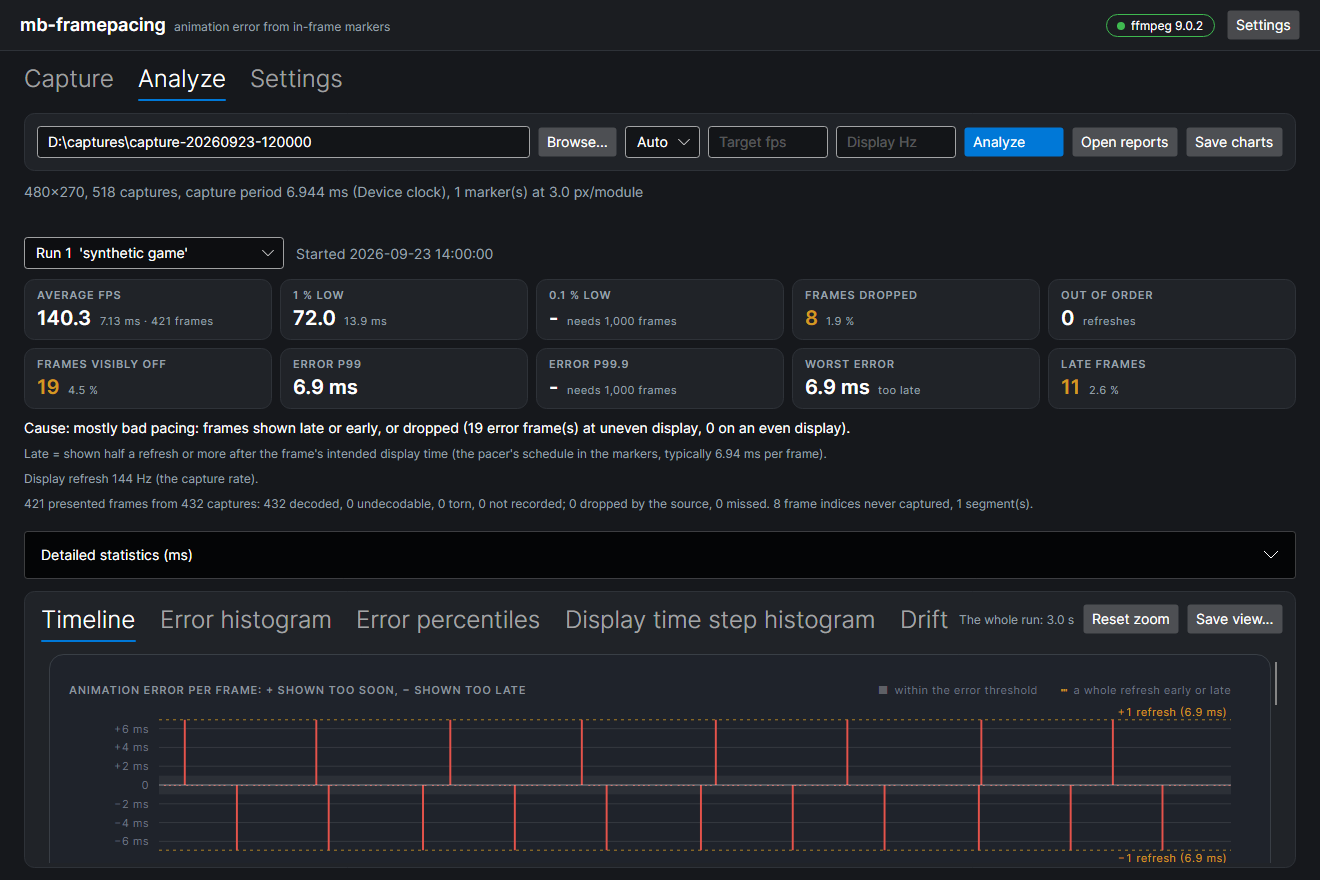
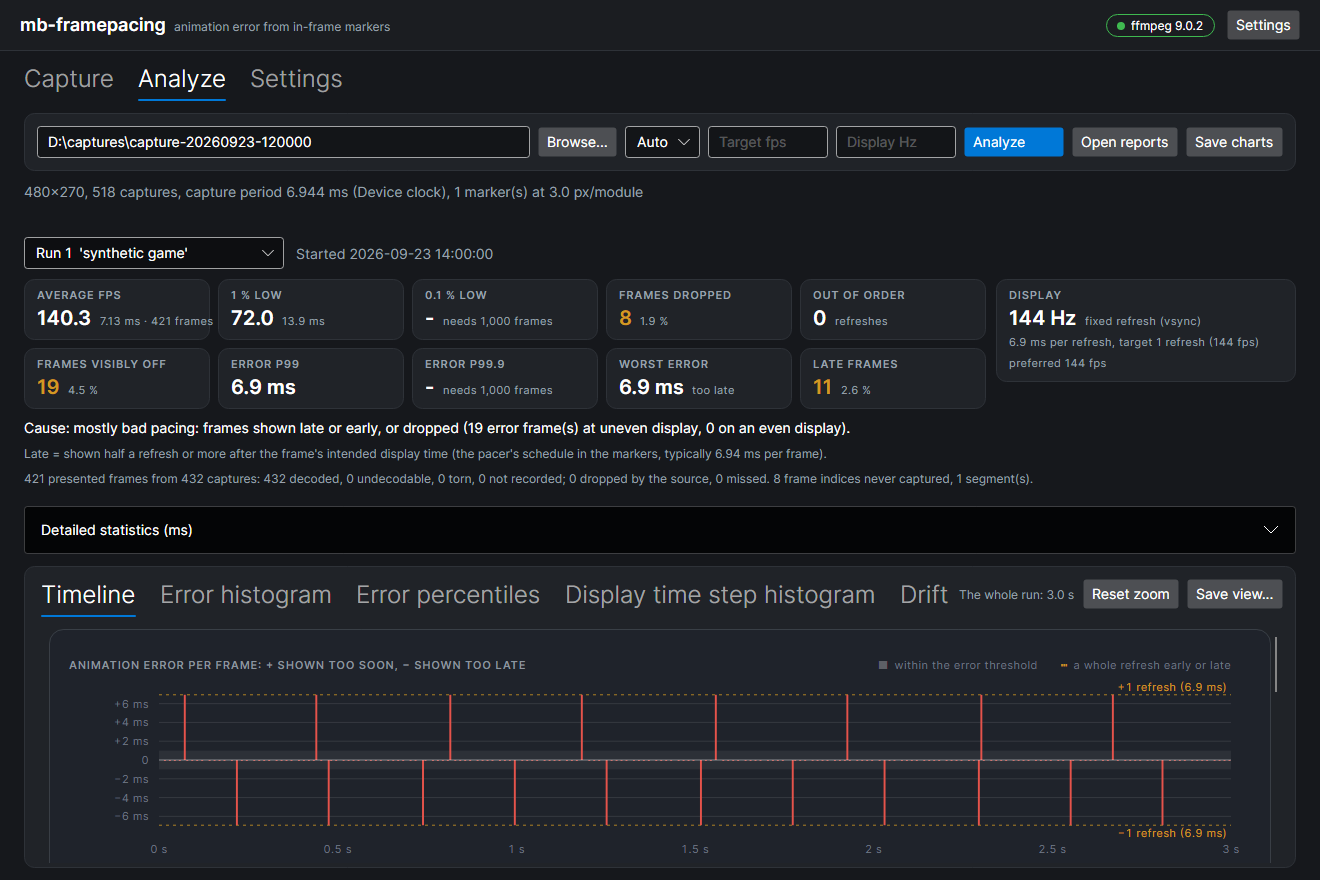
GUI: the report's display box as a Display card beside the tiles
RunHeadline.Display (DisplaySummary) now builds the display box's rate, kind, time per refresh with the target, and what the application prefers; the report draws it (its SVGs byte-identical) and the Analyze page shows it as a card top right beside the tiles, as on the report. The old refresh line becomes the card's tooltip. The tiles were already the report's (RunHeadline.Shown). gui-analysis.png regenerated; usage.md and CLAUDE.md name the card.

diff --git a/measure/libs/MB.FramePacing.Charts/source/ReportCard.cs b/measure/libs/MB.FramePacing.Charts/source/ReportCard.cs
@@ -138,15 +138,13 @@ namespace MB.FramePacing.Charts
       var tiles = ReportItem.TileIds.Any(options.IsShown) ? RunHeadline.Shown(section.Section, options).ToList() : new List<HeadlineTile>();
       if (options.HideEmpty && options.IsShown(ReportItem.LateShare) && (section.Section.Run.Pacing?.LateFrames ?? 0) == 0)
         options = options.Hide(new[] { ReportItem.LateShare });
-      // What the application wants, when its markers say so: a line of its own in the display box
-      string wants = options.IsShown(ReportItem.Display)
-        ? Wants(Enumerable.Range(section.Start, section.FrameCount).Select(i => section.Data.Frames[i]))
-        : string.Empty;
-      double displayH = wants.Length > 0 ? DisplayBoxH + DisplayLineH : DisplayBoxH;
+      // The display box (RunHeadline, as the GUI's Display card); what the application wants gets a line of its own
+      var display = options.IsShown(ReportItem.Display) ? RunHeadline.Display(section) : null;
+      double displayH = display is { Wants.Length: > 0 } ? DisplayBoxH + DisplayLineH : DisplayBoxH;
       var layout = Layout.For(options, description.Count, tiles.Count, displayH);
       var parts = Header(title, options.IsShown(ReportItem.Description) ? description : Array.Empty<string>(), options.IsShown(ReportItem.Title));
-      if (options.IsShown(ReportItem.Display))
-        DisplayBox(parts, chart, section, refreshMs, width, wants, displayH);
+      if (display != null)
+        DisplayBox(parts, display, width, displayH);
 
       Tiles(parts, tiles, layout.TilesY, width, options.TilesPerRowFor(tiles.Count));
       // The panels only read the section: each draws into shapes of its own, on the thread pool, joined in the card's order
@@ -271,96 +269,32 @@ namespace MB.FramePacing.Charts
     }
 
     /// <summary>
-    /// The display in the top right corner: its refresh rate, whether it is the fixed refresh a capture card captures at (vsync) or calculated
-    /// from a camera's frames, the time per refresh, and what the frames targeted in whole refreshes.
+    /// The display in the top right corner (<see cref="RunHeadline.Display"/>): its refresh rate, whether it is the fixed refresh a capture card
+    /// captures at (vsync) or calculated from a camera's frames, the time per refresh, what the frames targeted in whole refreshes, and what
+    /// the application wants.
     /// </summary>
-    private static void DisplayBox(
-      List<CardShape> parts,
-      ChartRun chart,
-      RunSection section,
-      double refreshMs,
-      double width,
-      string wants,
-      double boxH
-    )
+    private static void DisplayBox(List<CardShape> parts, DisplaySummary display, double width, double boxH)
     {
-      var frames = Enumerable.Range(section.Start, section.FrameCount).Select(i => section.Data.Frames[i]);
       const double BoxW = 300;
       double X = width - 20 - BoxW;
       const double Y = 14;
-      var pacing = chart.Run.Pacing;
       parts.Add(new RectShape("tile", N(X, 1), N(Y, 0), N(BoxW, 0), N(boxH, 0), "10"));
       parts.Add(new TextShape(X + 14, Y + 19, "DISPLAY", "label", "start"));
-      string rate = Hz(pacing);
-      bool mismatch = pacing?.MatchesExpectedRefresh == false;
-
-      string kind =
-        pacing == null ? "unknown"
-        : pacing.RefreshCalculated ? "calculated from the camera"
-        : "fixed refresh (vsync)";
-      if (pacing?.ExpectedRefreshHz is { } expected && mismatch)
-        kind += $", expected {expected.ToString("0.##", CultureInfo.InvariantCulture)} Hz";
       parts.Add(
         new TextRunsShape(
           X + 14,
           Y + 42,
-          new[] { new TextRun(rate, mismatch ? "tile-value warn" : "tile-value"), new TextRun("  " + kind, "vsync-n") }
+          new[] { new TextRun(display.Rate, display.Mismatch ? "tile-value warn" : "tile-value"), new TextRun("  " + display.Kind, "vsync-n") }
         )
       );
-
-      // What the frames targeted, in whole refreshes: the target frame time the marker carries (a pacer that adapts its rate, like Swappy,
-      // targets several), else the target each frame was measured against. Not the schedule's step, which is longer after a late frame.
-      static bool Known(uint ticks) => ticks > 0 && ticks != MB.FramePacing.Marker.MarkerPayload.OnDemandFrameTicks;
-      var refreshes = frames
-        .Where(f => f.DisplayDeltaTicks.HasValue && (Known(f.MarkerTargetFrameTicks) || f.TargetTicks.HasValue))
-        .Select(f =>
-          (int)
-            Math.Round(
-              (Known(f.MarkerTargetFrameTicks) ? f.MarkerTargetFrameTicks : f.TargetTicks!.Value) / (double)TimeSpan.TicksPerMillisecond / refreshMs
-            )
-        )
-        .Distinct()
-        .Order()
-        .ToArray();
-      string target =
-        refreshes.Length == 0 ? string.Empty
-        : refreshes.Length == 1
-          ? $", target {Refreshes(refreshes[0])} ({(1000 / (refreshes[0] * refreshMs)).ToString("0.#", CultureInfo.InvariantCulture)} fps)"
-        : $", target {refreshes[0]}\u2013{Refreshes(refreshes[^1])}";
-      parts.Add(new TextShape(X + 14, Y + 60, $"{Ms1(refreshMs)} ms per refresh{target}", "vsync-n", "start"));
-      if (wants.Length > 0)
-        parts.Add(new TextShape(X + 14, Y + 60 + DisplayLineH, wants, "vsync-n", "start"));
+      parts.Add(new TextShape(X + 14, Y + 60, display.Refresh, "vsync-n", "start"));
+      if (display.Wants.Length > 0)
+        parts.Add(new TextShape(X + 14, Y + 60 + DisplayLineH, display.Wants, "vsync-n", "start"));
     }
 
     // The display box's height, and one more line for what the application wants
     private const double DisplayBoxH = 68;
     private const double DisplayLineH = 16;
-
-    /// <summary>What the application wants, when its markers say so ("preferred 60 fps", "preferred 1–60 fps, on demand"), else empty.</summary>
-    private static string Wants(IEnumerable<PresentedFrame> frames)
-    {
-      static bool Known(uint ticks) => ticks > 0 && ticks != MB.FramePacing.Marker.MarkerPayload.OnDemandFrameTicks;
-      var preferredFps = frames
-        .Where(f => Known(f.MarkerPreferredFrameTicks))
-        .Select(f => Math.Round(TimeSpan.TicksPerSecond / (double)f.MarkerPreferredFrameTicks, 1))
-        .Distinct()
-        .Order()
-        .ToArray();
-      bool onDemand = frames.Any(f => f.MarkerPreferredFrameTicks == MB.FramePacing.Marker.MarkerPayload.OnDemandFrameTicks);
-      var wants = new List<string>();
-      if (preferredFps.Length > 0)
-      {
-        string Fps(double fps) => fps.ToString("0.#", CultureInfo.InvariantCulture);
-        wants.Add(
-          preferredFps.Length == 1 ? $"preferred {Fps(preferredFps[0])} fps" : $"preferred {Fps(preferredFps[0])}\u2013{Fps(preferredFps[^1])} fps"
-        );
-      }
-      if (onDemand)
-        wants.Add("on demand");
-      return string.Join(", ", wants);
-    }
-
-    private static string Refreshes(int count) => count == 1 ? "1 refresh" : $"{count} refreshes";
 
     private static void Tiles(List<CardShape> parts, IReadOnlyList<HeadlineTile> tiles, double tilesY, double width, int perRow)
     {
@@ -1602,6 +1536,6 @@ namespace MB.FramePacing.Charts
 
     private static string Percent(double share) => share.ToString("P1", CultureInfo.InvariantCulture);
 
-    private static string Hz(RunPacing? pacing) => pacing != null ? $"{pacing.RefreshHz.ToString("0.##", CultureInfo.InvariantCulture)} Hz" : "?? Hz";
+    private static string Hz(RunPacing? pacing) => RunHeadline.Hz(pacing);
   }
 }

diff --git a/measure/libs/MB.FramePacing.Charts/source/RunHeadline.cs b/measure/libs/MB.FramePacing.Charts/source/RunHeadline.cs
@@ -164,6 +164,75 @@ namespace MB.FramePacing.Charts
     }
 
     /// <summary>
+    /// The display <paramref name="section"/> was shown on: its refresh rate, whether it is the fixed refresh a capture card captures at
+    /// (vsync) or calculated from a camera's frames, the time per refresh, what the section's frames targeted in whole refreshes, and what the
+    /// application wants when its markers say so. The report's display box and the GUI's Display card show it.
+    /// </summary>
+    public static DisplaySummary Display(RunSection section)
+    {
+      var chart = section.Run;
+      var pacing = chart.Run.Pacing;
+      double refreshMs = pacing?.RefreshPeriodMs ?? (chart.CapturePeriodTicks / (double)TimeSpan.TicksPerMillisecond);
+      var frames = Enumerable.Range(section.Start, section.FrameCount).Select(i => section.Data.Frames[i]).ToList();
+      bool mismatch = pacing?.MatchesExpectedRefresh == false;
+      string kind =
+        pacing == null ? "unknown"
+        : pacing.RefreshCalculated ? "calculated from the camera"
+        : "fixed refresh (vsync)";
+      if (pacing?.ExpectedRefreshHz is { } expected && mismatch)
+        kind += $", expected {expected.ToString("0.##", CultureInfo.InvariantCulture)} Hz";
+
+      // What the frames targeted, in whole refreshes: the target frame time the marker carries (a pacer that adapts its rate, like Swappy,
+      // targets several), else the target each frame was measured against. Not the schedule's step, which is longer after a late frame.
+      var refreshes = frames
+        .Where(f => f.DisplayDeltaTicks.HasValue && (Known(f.MarkerTargetFrameTicks) || f.TargetTicks.HasValue))
+        .Select(f =>
+          (int)
+            Math.Round(
+              (Known(f.MarkerTargetFrameTicks) ? f.MarkerTargetFrameTicks : f.TargetTicks!.Value) / (double)TimeSpan.TicksPerMillisecond / refreshMs
+            )
+        )
+        .Distinct()
+        .Order()
+        .ToArray();
+      string target =
+        refreshes.Length == 0 ? string.Empty
+        : refreshes.Length == 1 ? $", target {Refreshes(refreshes[0])} ({Invariant(1000 / (refreshes[0] * refreshMs), "0.#")} fps)"
+        : $", target {refreshes[0]}–{Refreshes(refreshes[^1])}";
+      return new DisplaySummary(Hz(pacing), kind, mismatch, $"{ReportCard.Ms1(refreshMs)} ms per refresh{target}", Wants(frames));
+    }
+
+    /// <summary>The refresh rate ("60 Hz"), "?? Hz" without pacing.</summary>
+    public static string Hz(RunPacing? pacing) => pacing != null ? $"{Invariant(pacing.RefreshHz, "0.##")} Hz" : "?? Hz";
+
+    /// <summary>What the application wants, when its markers say so ("preferred 60 fps", "preferred 1–60 fps, on demand"), else empty.</summary>
+    private static string Wants(IReadOnlyList<PresentedFrame> frames)
+    {
+      var preferredFps = frames
+        .Where(f => Known(f.MarkerPreferredFrameTicks))
+        .Select(f => Math.Round(TimeSpan.TicksPerSecond / (double)f.MarkerPreferredFrameTicks, 1))
+        .Distinct()
+        .Order()
+        .ToArray();
+      bool onDemand = frames.Any(f => f.MarkerPreferredFrameTicks == MB.FramePacing.Marker.MarkerPayload.OnDemandFrameTicks);
+      var wants = new List<string>();
+      if (preferredFps.Length > 0)
+      {
+        string Fps(double fps) => Invariant(fps, "0.#");
+        wants.Add(
+          preferredFps.Length == 1 ? $"preferred {Fps(preferredFps[0])} fps" : $"preferred {Fps(preferredFps[0])}–{Fps(preferredFps[^1])} fps"
+        );
+      }
+      if (onDemand)
+        wants.Add("on demand");
+      return string.Join(", ", wants);
+    }
+
+    private static bool Known(uint ticks) => ticks > 0 && ticks != MB.FramePacing.Marker.MarkerPayload.OnDemandFrameTicks;
+
+    private static string Refreshes(int count) => count == 1 ? "1 refresh" : $"{count} refreshes";
+
+    /// <summary>
     /// The frame rate numbers describe the frames that animate: "excluding 48 static frames" when a section has any, else null. Every frame
     /// rate number and the display time step histogram leave those display time steps out.
     /// </summary>

diff --git a/measure/app/FramePacing.Gui/source/ViewModels/RunViewModel.cs b/measure/app/FramePacing.Gui/source/ViewModels/RunViewModel.cs
@@ -30,6 +30,7 @@ namespace MB.FramePacing.Gui.ViewModels
       Title = RunHeadline.Title(run);
       Tiles = RunHeadline.Shown(chart, ReportOptions.Default);
       TileColumns = ReportOptions.Default.TilesPerRowFor(Tiles.Count);
+      Display = RunHeadline.Display(RunSection.Whole(chart));
       var c = run.Counts;
       StartText = run.StartTimeUtc is { } start ? $"Started {start.ToLocalTime():yyyy-MM-dd HH:mm:ss}" : "No start time";
       CountsText =
@@ -67,7 +68,6 @@ namespace MB.FramePacing.Gui.ViewModels
               : string.Empty
           )
           + ".";
-        RefreshMismatch = pacing.MatchesExpectedRefresh == false;
         VerdictText = "Cause: " + RunHeadline.Cause(pacing);
       }
       var statistics = new List<StatisticsRow>
@@ -110,11 +110,14 @@ namespace MB.FramePacing.Gui.ViewModels
     public bool IsCamera { get; }
     public string TargetText { get; } = string.Empty;
 
-    /// <summary>The refresh rate used, where it comes from, and how it compares with the expected display rate.</summary>
+    /// <summary>The refresh rate used, where it comes from, and how it compares with the expected display rate: the Display card's tooltip.</summary>
     public string RefreshText { get; } = string.Empty;
 
-    /// <summary>The refresh rate differs from the expected display rate.</summary>
-    public bool RefreshMismatch { get; }
+    /// <summary>The Display card: the report's display box (RunHeadline.Display) for the whole run.</summary>
+    public DisplaySummary Display { get; }
+
+    /// <summary>The Display card has a line for what the application wants.</summary>
+    public bool HasWants => Display.Wants.Length > 0;
     public string VerdictText { get; } = string.Empty;
     public string Title { get; }
 

diff --git a/measure/libs/MB.FramePacing.Charts/source/DisplaySummary.cs b/measure/libs/MB.FramePacing.Charts/source/DisplaySummary.cs
@@ -1,0 +1,19 @@
+//****************************************************************************************************************************************************
+//* File Description
+//* ----------------
+//* The display a run was shown on, as the report's display box and the GUI's Display card show it: its refresh rate and where it comes
+//* from, the time per refresh and what the frames targeted, and what the application wants when its markers say so.
+//*
+//* SPDX-FileCopyrightText: Copyright (C) 2026 Mana Battery ApS
+//* SPDX-License-Identifier: LicenseRef-PolyForm-Perimeter-1.0.1
+//****************************************************************************************************************************************************
+
+namespace MB.FramePacing.Charts
+{
+  /// <param name="Rate">The refresh rate ("60 Hz"), "?? Hz" without pacing.</param>
+  /// <param name="Kind">Where the rate comes from ("fixed refresh (vsync)", "calculated from the camera"), with the expected rate when it differs.</param>
+  /// <param name="Mismatch">The rate differs from the display rate the user expected: shown in the warning colour.</param>
+  /// <param name="Refresh">The time per refresh and what the frames targeted in whole refreshes ("16.7 ms per refresh, target 1 refresh (60 fps)").</param>
+  /// <param name="Wants">What the application wants, when its markers say so ("preferred 60 fps", "on demand"), else empty.</param>
+  public sealed record DisplaySummary(string Rate, string Kind, bool Mismatch, string Refresh, string Wants);
+}

diff --git a/measure/doc/usage.md b/measure/doc/usage.md
@@ -236,6 +236,11 @@ The headline numbers on the Analyze page (the report card shows the same):
 | Worst error        | The largest absolute animation error, and whether that frame was shown too soon or too late                                                                                                                                         |
 | Late frames        | Frames shown later than planned (see below), and their share of the run                                                                                                                                                             |
 
+Beside them, the **Display** card (the report's display box, top right) shows the refresh rate and whether it is a capture card's fixed
+refresh (vsync) or calculated from a camera, the time per refresh with what the frames targeted in whole refreshes, and what the
+application prefers when its markers say so. The rate turns amber when it differs from the display rate you expected; the card's
+tooltip says by how much.
+
 The frame rate numbers (average fps, the lows) and the display time step statistics and histogram describe the frames that animate: a
 static frame's time on screen (the marker's `StaticAfter` or `StaticBefore` flag) is left out, and the tile, the report's description and the statistics
 table say how many ("excluding 48 static frames"; `statistics.excludedStaticFrames` in `summary.json`, `StaticBefore` in the frames

diff --git a/CLAUDE.md b/CLAUDE.md
@@ -178,8 +178,9 @@ glcore|vulkan|d3d12` forces another graphics API); it takes the newest editor Un
       - intended display time - lateness; without a schedule, no frame presented after it appears), present arrows, display cells. A
         static frame's cells are violet (`strip-static-a`/`-b`) and the error row says "static" on the static step after it; a frame presented on demand is never
         "held longer" (no interval to be late for).
-    - The headline numbers come from `RunHeadline` only: the GUI's tiles and the report card's show the same tiles, so add or change
-      a number there, not in the GUI. A tile without a number shows "-" with `HasValue` false.
+    - The headline numbers come from `RunHeadline` only: the GUI's tiles and the report card's show the same tiles, and the GUI's
+      Display card the report's display box (`RunHeadline.Display`, `DisplaySummary`), so add or change a number there, not in the GUI.
+      A tile without a number shows "-" with `HasValue` false.
     - The animation error panel draws a refresh line (`error-refresh`, dashed amber, labelled "+1 refresh (16.7 ms)") at every whole
       refresh an error reaches within a tenth of a refresh, over the frames the scale covers, and only inside the scale
       (`ChartScale.ErrorRefreshTicks`, at most four per side).
